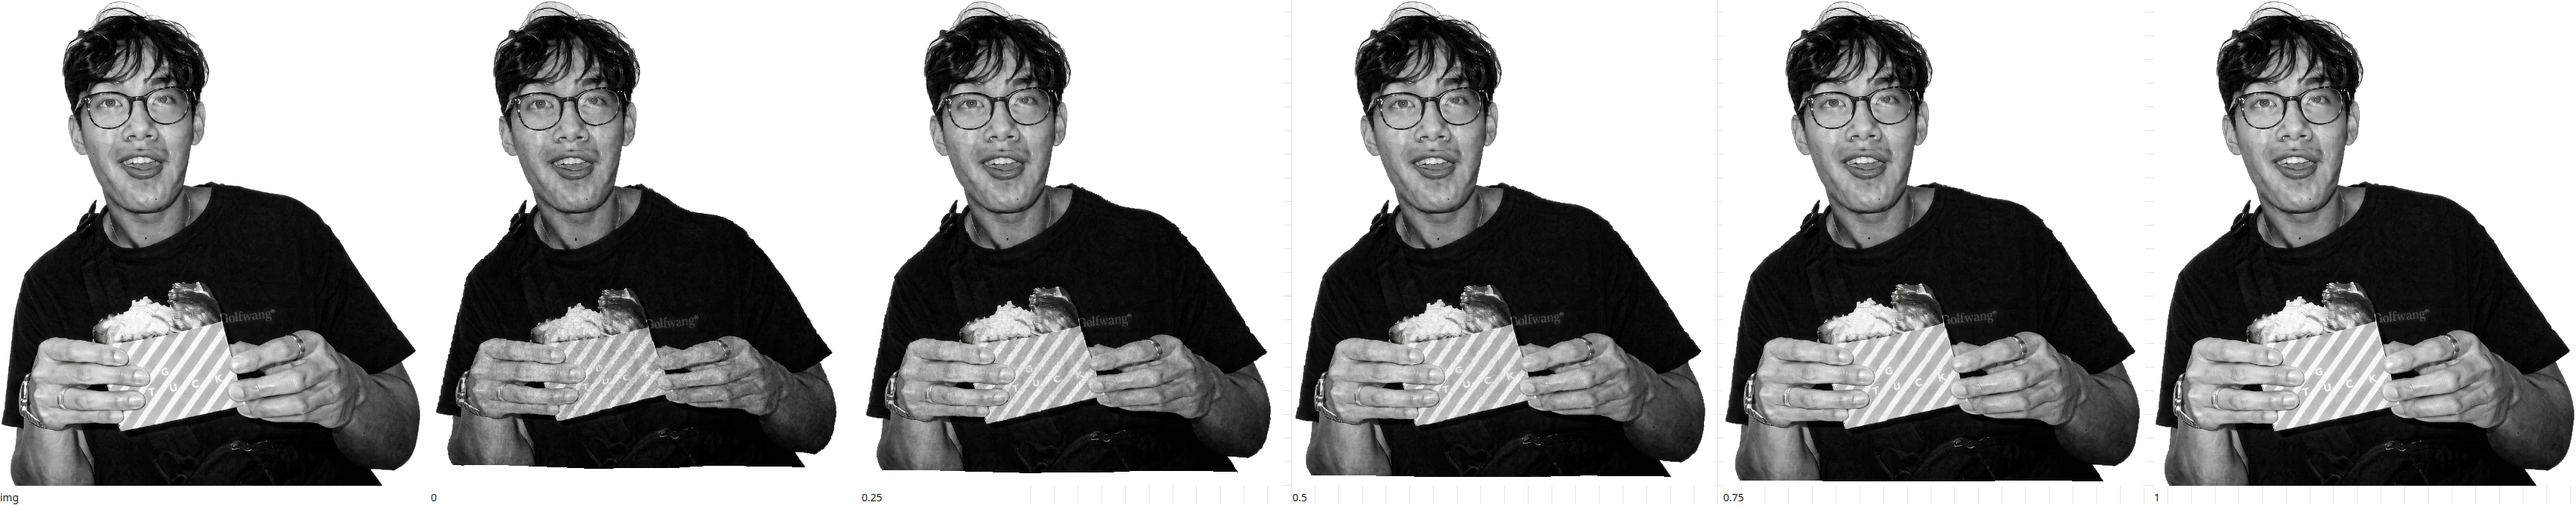
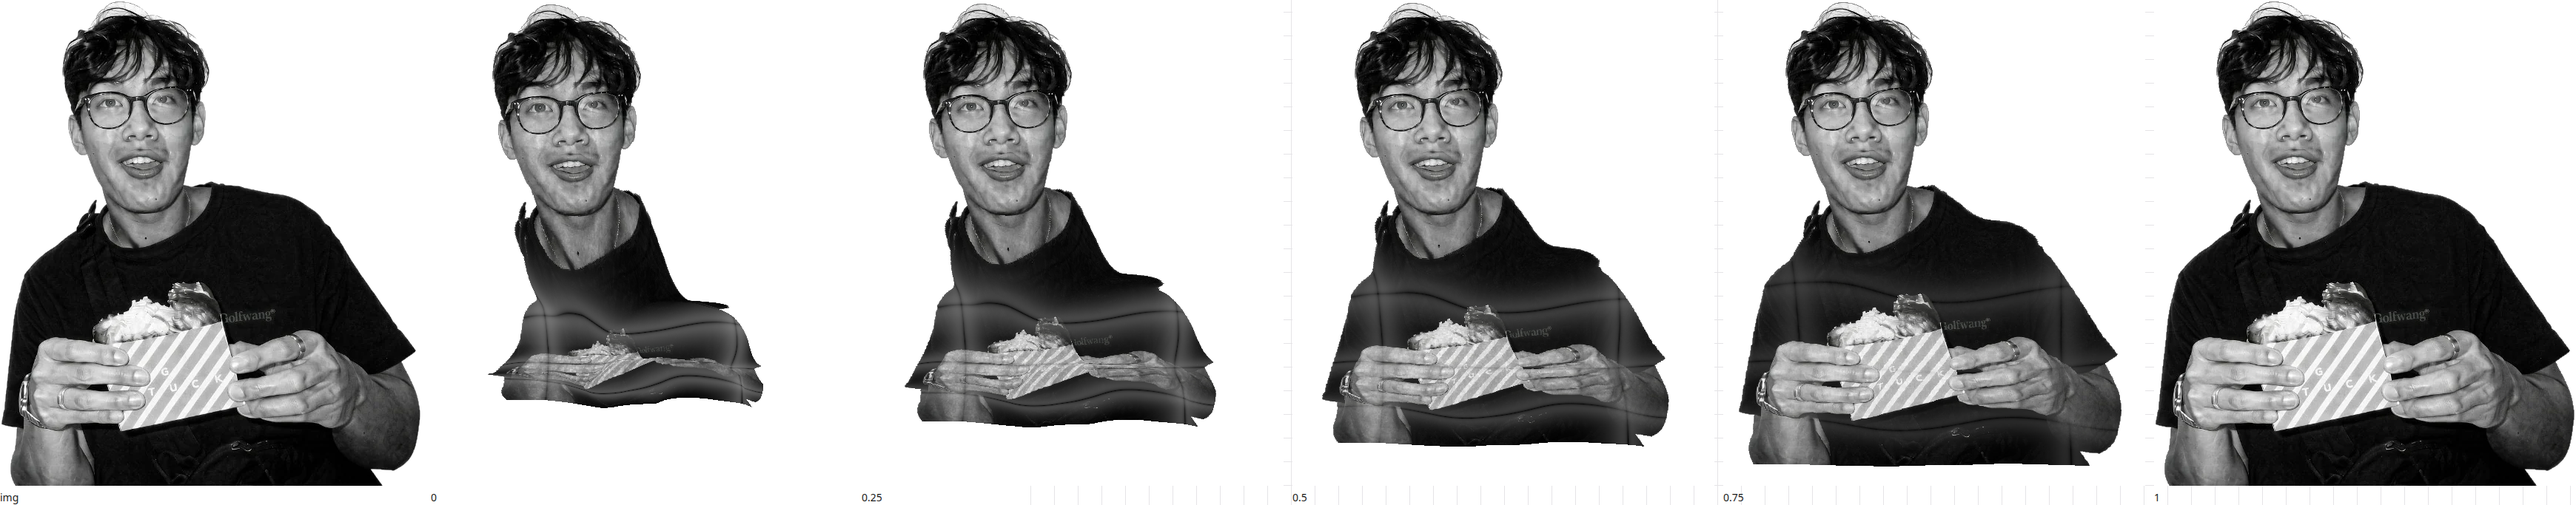
Restore the deep folds under the paper photo.
The shirt, hands, and edges bend again, and the paper gray plus a ridge highlight keep the creases visible when the sheet is small.

diff --git a/src/lib/crumpleMaterial.js b/src/lib/crumpleMaterial.js
@@ -72,12 +72,12 @@ void main() {
   float chest = (0.42 - 0.5) * h + sin(p.x / w * 8.5) * h * 0.022;
   float hands = (0.24 - 0.5) * h + sin(p.x / w * 6.4 + 1.1) * h * 0.018;
   float hem = (0.10 - 0.5) * h + sin(p.x / w * 11.0) * h * 0.012;
-  p = bendY(p, chest, 0.38 * depth, h * 0.09, crease, tilt);
-  p = bendY(p, hands, -0.32 * depth, h * 0.07, crease, tilt);
-  p = bendY(p, hem, 0.22 * depth, h * 0.055, crease, tilt);
+  p = bendY(p, chest, 0.95 * depth, h * 0.065, crease, tilt);
+  p = bendY(p, hands, -0.85 * depth, h * 0.05, crease, tilt);
+  p = bendY(p, hem, 0.6 * depth, h * 0.042, crease, tilt);
   float gate = 1.0 - smoothstep(0.52, 0.62, uv.y);
-  p = bendX(p, (0.14 - 0.5) * w, 0.26 * depth * gate, w * 0.1, crease, tilt);
-  p = bendX(p, (0.84 - 0.5) * w, -0.22 * depth * gate, w * 0.11, crease, tilt);
+  p = bendX(p, (0.14 - 0.5) * w, 0.7 * depth * gate, w * 0.07, crease, tilt);
+  p = bendX(p, (0.84 - 0.5) * w, -0.6 * depth * gate, w * 0.08, crease, tilt);
 
   float e = 0.016;
   vec2 nuv = uv * vec2(3.4, 4.2) + vec2(1.7, 0.4);
@@ -87,12 +87,12 @@ void main() {
   vec2 nuv2 = uv * vec2(6.8, 7.4) + vec2(5.0, 1.2);
   float hx = (noise(nuv2 + vec2(e, 0.0)) - noise(nuv2 - vec2(e, 0.0))) / (2.0 * e);
   float hy = (noise(nuv2 + vec2(0.0, e)) - noise(nuv2 - vec2(0.0, e))) / (2.0 * e);
-  p.xy += (vec2(-gx, -gy) * 0.02 + vec2(-hx, -hy) * 0.008) * span * depth;
-  p.z += ((n0 - 0.5) * 0.08 + (noise(nuv2) - 0.5) * 0.03) * span * depth;
+  p.xy += (vec2(-gx, -gy) * 0.05 + vec2(-hx, -hy) * 0.018) * span * depth;
+  p.z += ((n0 - 0.5) * 0.22 + (noise(nuv2) - 0.5) * 0.08) * span * depth;
 
   vec3 pos = position + (p - position) * k;
-  float shade = mix(1.0, 0.78, clamp(crease * 0.3, 0.0, 1.0));
-  shade *= mix(0.9, 1.0, cos(clamp(tilt * 0.35, 0.0, 1.1)));
+  float shade = mix(1.0, 0.5, clamp(crease * 0.42, 0.0, 1.0));
+  shade *= mix(0.78, 1.0, cos(clamp(tilt * 0.4, 0.0, 1.15)));
   vShade = mix(1.0, shade, k);
   gl_Position = projectionMatrix * modelViewMatrix * vec4(pos, 1.0);
 }
@@ -106,6 +106,13 @@ varying vec2 vUv;
 varying float vShade;
 varying float vDepth;
 
+void foldLine(float d, float valleySharp, float ridgeSharp, inout float valley, inout float ridge) {
+  float v = exp(-abs(d) * valleySharp);
+  float s = exp(-abs(d) * ridgeSharp);
+  valley += v;
+  ridge += max(s - v, 0.0);
+}
+
 void main() {
   vec4 texel = texture2D(uMap, vUv);
   float k = 1.0 - uProgress;
@@ -113,13 +120,37 @@ void main() {
     if (texel.a < 0.02) discard;
     vec3 paper = texture2D(uPaper, vUv).rgb;
     float lum = dot(paper, vec3(0.2126, 0.7152, 0.0722));
-    float crease = smoothstep(0.28, 0.56, lum);
-    float wrinkle = mix(0.62, 1.0, crease);
+    float n = clamp((lum - 0.28) / 0.28, 0.0, 1.0);
+    n = n * n * (3.0 - 2.0 * n);
+    float wrinkle = mix(0.42, 1.12, n);
     float slope = length(vec2(dFdx(lum), dFdy(lum)));
-    wrinkle *= mix(1.0, 0.72, clamp(slope * 28.0, 0.0, 1.0));
-    float amount = mix(0.45, 1.0, vDepth);
+    wrinkle *= mix(1.0, 0.62, clamp(slope * 36.0, 0.0, 1.0));
+    float amount = mix(0.25, 1.0, vDepth);
     texel.rgb *= mix(1.0, wrinkle, k * amount);
+
+    float valley = 0.0;
+    float ridge = 0.0;
+    float y1 = 0.42 + 0.022 * sin(vUv.x * 8.5);
+    float y2 = 0.24 + 0.018 * sin(vUv.x * 6.4 + 1.1);
+    float y3 = 0.10 + 0.012 * sin(vUv.x * 11.0);
+    foldLine(vUv.y - y1, 130.0, 46.0, valley, ridge);
+    foldLine(vUv.y - y2, 145.0, 52.0, valley, ridge);
+    foldLine(vUv.y - y3, 160.0, 58.0, valley, ridge);
+    float side = 1.0 - smoothstep(0.52, 0.62, vUv.y);
+    float x1 = 0.14 + 0.012 * sin(vUv.y * 8.0);
+    float x2 = 0.84 + 0.014 * sin(vUv.y * 8.0 + 1.7);
+    float sideValley = 0.0;
+    float sideRidge = 0.0;
+    foldLine(vUv.x - x1, 100.0, 36.0, sideValley, sideRidge);
+    foldLine(vUv.x - x2, 100.0, 36.0, sideValley, sideRidge);
+    valley += sideValley * side;
+    ridge += sideRidge * side;
+    float weight = vDepth;
+    float ink = clamp(valley, 0.0, 1.0) * weight;
+    float hi = clamp(ridge, 0.0, 1.0) * weight;
+    texel.rgb *= mix(1.0, mix(1.0, 0.34, ink), k);
     texel.rgb *= vShade;
+    texel.rgb += hi * 0.22 * k;
   }
   gl_FragColor = texel;
   #include <colorspace_fragment>
